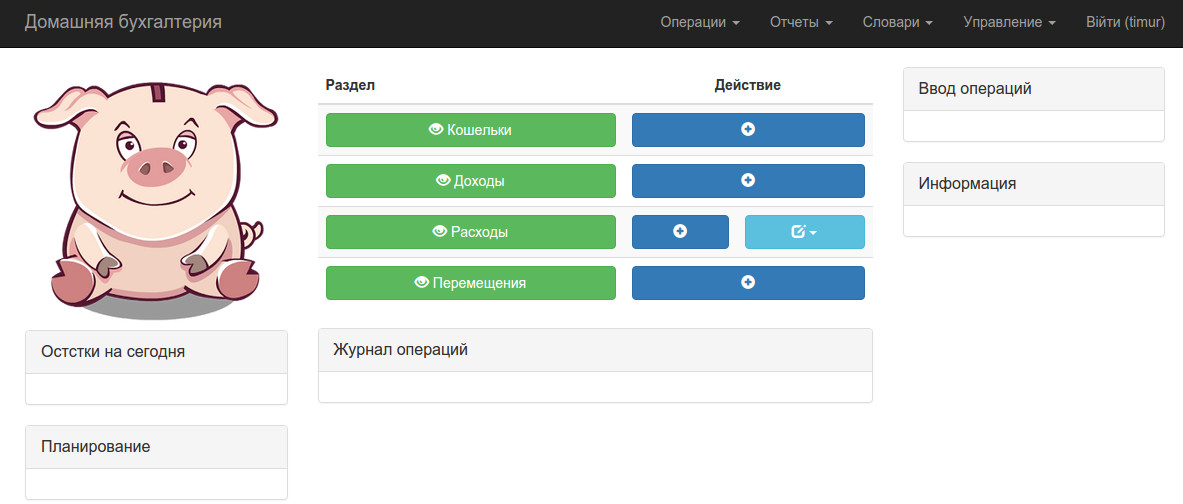
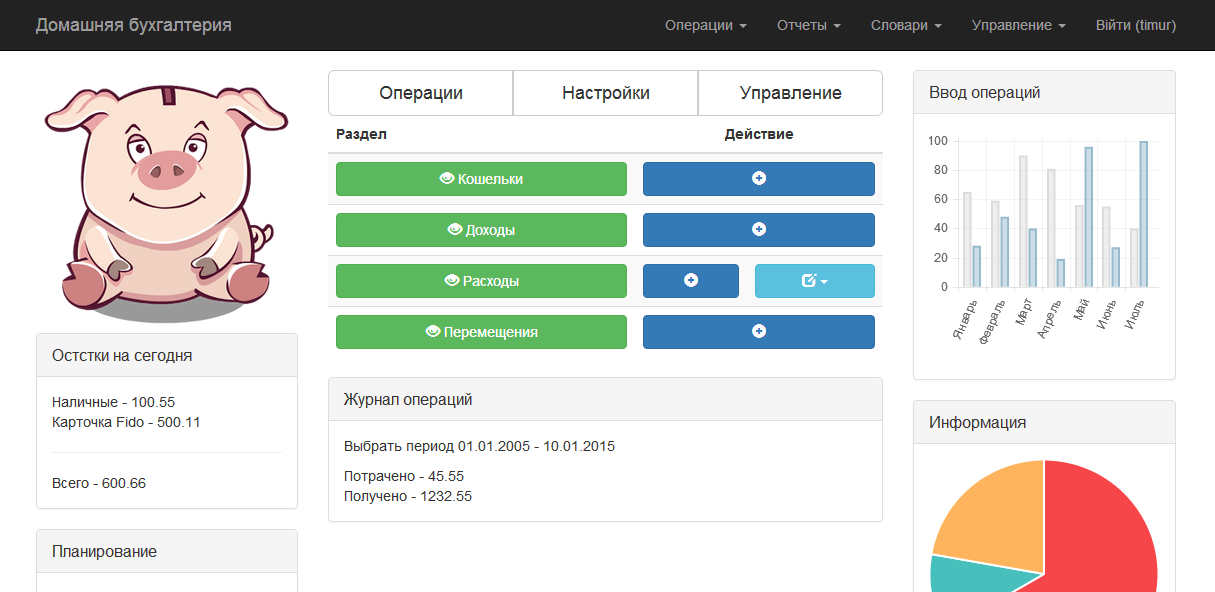
Главная страница

diff --git a/views/main/index.php b/views/main/index.php
@@ -3,6 +3,7 @@
 
 use yii\helpers\Html;
 use app\models\Expensetemp;
+use dosamigos\chartjs\ChartJs;
 ?>
 <div class="row">
     <div class="col-md-3 col-lg-3">
@@ -34,10 +35,7 @@ use app\models\Expensetemp;
 
 
         <?php
-        
-        
         //Эксперименты с правами в разделе Unit
-        
 //        $role = Yii::$app->authManager->createRole('admin');
 //        $role->description = 'Админ';
 //        Yii::$app->authManager->add($role);
@@ -58,13 +56,13 @@ use app\models\Expensetemp;
 
         <div class="btn-group btn-group-justified btn-group-lg" role="group">
             <div class="btn-group" role="group">
-                <button type="button" class="btn btn-default btn-lg">Left</button>
+                <button type="button" class="btn btn-default btn-lg">Операции</button>
             </div>
             <div class="btn-group" role="group">
-                <button type="button" class="btn btn-default btn-lg">Middle</button>
+                <button type="button" class="btn btn-default btn-lg">Настройки</button>
             </div>
             <div class="btn-group" role="group">
-                <button type="button" class="btn btn-default btn-lg">Right</button>
+                <button type="button" class="btn btn-default btn-lg">Управление</button>
             </div>
         </div>
 
@@ -81,19 +79,19 @@ use app\models\Expensetemp;
             <tr>
                 <td colspan="1"><?= Html::a('<span class="glyphicon glyphicon-eye-open"></span> Кошельки', ['/wallet'], ['class' => 'btn btn-success btn-block']) ?></td>
                 <td class="text-right" colspan="2">
-<?= Html::a('<span class="glyphicon glyphicon-plus-sign"></span>', ['/wallet/create'], ['class' => 'btn btn-primary', 'title' => 'Создать', 'style' => "width:100%"]) ?>         
+                    <?= Html::a('<span class="glyphicon glyphicon-plus-sign"></span>', ['/wallet/create'], ['class' => 'btn btn-primary', 'title' => 'Создать', 'style' => "width:100%"]) ?>         
                 </td>
             </tr>
             <tr>
                 <td colspan="1"><?= Html::a('<span class="glyphicon glyphicon-eye-open"></span> Доходы', ['/income'], ['class' => 'btn btn-success btn-block']) ?></td>
                 <td class="text-right" colspan="2">
-<?= Html::a('<span class="glyphicon glyphicon-plus-sign"></span>', ['/income/create'], ['class' => 'btn btn-primary', 'title' => 'Создать', 'style' => "width:100%"]) ?>         
+                    <?= Html::a('<span class="glyphicon glyphicon-plus-sign"></span>', ['/income/create'], ['class' => 'btn btn-primary', 'title' => 'Создать', 'style' => "width:100%"]) ?>         
                 </td>
             </tr>
             <tr>
                 <td><?= Html::a('<span class="glyphicon glyphicon-eye-open"></span> Расходы', ['/expense'], ['class' => 'btn btn-success btn-block']) ?></td>
                 <td class="text-right">
-<?= Html::a('<span class="glyphicon glyphicon-plus-sign"></span>', ['/expense/create'], ['class' => 'btn btn-primary', 'title' => 'Создать', 'style' => "width:100%"]) ?>         
+                    <?= Html::a('<span class="glyphicon glyphicon-plus-sign"></span>', ['/expense/create'], ['class' => 'btn btn-primary', 'title' => 'Создать', 'style' => "width:100%"]) ?>         
                 </td>
                 <td class="text-right"> 
                     <div class="btn-group" role="group" style = "width:100%">
@@ -102,11 +100,11 @@ use app\models\Expensetemp;
                             <span class="caret"></span>
                         </button>
                         <ul class="dropdown-menu" role="menu">
-<?php
-foreach (Expensetemp::getAllNamesForList(Yii::$app->user->identity->id) as $val) {
-    echo '<li>' . Html::a($val['name'], ['expense/create', 'tmp' => $val['id']], ['class' => '']) . '</li>';
-}
-?>
+                            <?php
+                            foreach (Expensetemp::getAllNamesForList(Yii::$app->user->identity->id) as $val) {
+                                echo '<li>' . Html::a($val['name'], ['expense/create', 'tmp' => $val['id']], ['class' => '']) . '</li>';
+                            }
+                            ?>
                         </ul>
                     </div>
                 </td>
@@ -114,7 +112,7 @@ foreach (Expensetemp::getAllNamesForList(Yii::$app->user->identity->id) as $val)
             <tr>
                 <td colspan="1"><?= Html::a('<span class="glyphicon glyphicon-eye-open"></span> Перемещения', ['/move'], ['class' => 'btn btn-success btn-block']) ?></td>
                 <td class="text-right" colspan="2">
-<?= Html::a('<span class="glyphicon glyphicon-plus-sign"></span>', ['/move/create'], ['class' => 'btn btn-primary', 'title' => 'Создать', 'style' => "width:100%"]) ?>         
+                    <?= Html::a('<span class="glyphicon glyphicon-plus-sign"></span>', ['/move/create'], ['class' => 'btn btn-primary', 'title' => 'Создать', 'style' => "width:100%"]) ?>         
                 </td>
 
             </tr>
@@ -141,6 +139,37 @@ foreach (Expensetemp::getAllNamesForList(Yii::$app->user->identity->id) as $val)
                 <div class="panel-title">Ввод операций</div>
             </div>     
             <div class="panel-body">
+
+
+                <?=
+                ChartJs::widget([
+                    'type' => 'Bar',
+                    'options' => [
+                        'height' => 230,
+                        'width' => 230
+                    ],
+                    'data' => [
+                        'labels' => ["Январь", "Февраль", "Март", "Апрель", "Май", "Июнь", "Июль"],
+                        'datasets' => [
+                            [
+                                'fillColor' => "rgba(220,220,220,0.5)",
+                                'strokeColor' => "rgba(220,220,220,1)",
+                                'pointColor' => "rgba(220,220,220,1)",
+                                'pointStrokeColor' => "#fff",
+                                'data' => [65, 59, 90, 81, 56, 55, 40]
+                            ],
+                            [
+                                'fillColor' => "rgba(151,187,205,0.5)",
+                                'strokeColor' => "rgba(151,187,205,1)",
+                                'pointColor' => "rgba(151,187,205,1)",
+                                'pointStrokeColor' => "#fff",
+                                'data' => [28, 48, 40, 19, 96, 27, 100]
+                            ]
+                        ]
+                    ]
+                ]);
+                ?>
+
             </div>                     
         </div>
         <div class="panel panel-default">
@@ -148,6 +177,35 @@ foreach (Expensetemp::getAllNamesForList(Yii::$app->user->identity->id) as $val)
                 <div class="panel-title">Информация</div>
             </div>     
             <div class="panel-body">
+                <?=
+                ChartJs::widget([
+                    'type' => 'Pie',
+                    'options' => [
+                        'height' => 230,
+                        'width' => 230,
+                    ],
+                    'data' => [
+                        [
+                            'value' => 300,
+                            'color' => "#F7464A",
+                            'highlight' => "#FF5A5E",
+                            'label' => "Red"
+                        ],
+                        [
+                            'value' => 50,
+                            'color' => "#46BFBD",
+                            'highlight' => "#5AD3D1",
+                            'label' => "Green"
+                        ],
+                        [
+                            'value' => 100,
+                            'color' => "#FDB45C",
+                            'highlight' => "#FFC870",
+                            'label' => "Yellow"
+                        ]
+                    ]
+                ]);
+                ?>
             </div>                     
         </div>
     </div>
@@ -205,7 +263,6 @@ foreach (Expensetemp::getAllNamesForList(Yii::$app->user->identity->id) as $val)
 <ul>
     <li>Переименовать поле "status" в "state"</li>
     <li>Реализовать "групповые" действия</li>
-    <li>Избавиться от этого - $dbman = new yii\rbac\DbManager; в назначениях ролей</li>
 </ul>
 
 <h3>Раздел "Категории расходов":</h3>
